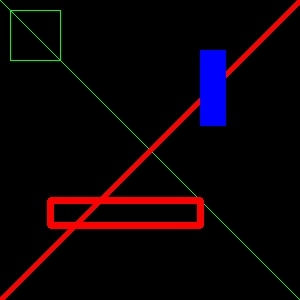
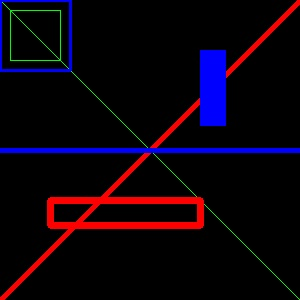
added some files

Changed region(s): [[0.0, 0.48, 1.0, 0.54], [0.0, 0.0, 0.27, 0.27]]

diff --git a/gru/04_getting_and_setting.py b/gru/04_getting_and_setting.py
@@ -9,14 +9,16 @@ image = cv2.imread(path)
 cv2.imshow("Original", image)
 
 ## Read the pixel in the top left corner
-(b, g, r) = image[0, 0]
-print("Pixel at (0, 0) - Red={}, Green={}, Blue={}".format(r, g, b))
+(b, g, r) = image[200, 200]
+print("Pixel at (200, 200) - Red={}, Green={}, Blue={}".format(r, g, b))
 
 ## Change the pixel in the top left corner
-image[0, 0] = (0, 0, 255)
-(b, g, r) = image[0, 0]
-print("Pixel at (0, 0) - Red={}, Green={}, Blue={}".format(r, g, b))
-cv2.imshow("original2", image)
+image[5, 5] = (0, 0, 255)
+(b, g, r) = image[200, 200]
+print("Pixel at (200, 200) - Red={}, Green={}, Blue={}".format(r, g, b))
+cv2.imshow("Original", image)
+image
+cv2.imshow("changed", image)
 
 ## Extract a sub-image and display it
 corner = image[0:100, 0:100]
@@ -24,8 +26,6 @@ cv2.imshow("Corner", corner)
 
 ## Change a subregion and display it
 image[0:100, 0:100] = (0, 255, 0)
-image[100:200, 100:200] = (0, 0, 255)
-image[0:100, 200:300] = (128, 255, 0)
 cv2.imshow("Updated", image)
 
 ## Wait for a key press

diff --git a/gru/06h_masking.py b/gru/06h_masking.py
@@ -1,0 +1,27 @@
+import numpy as np
+import cv2
+
+def show(title, img):
+    cv2.imshow(title, img)
+    cv2.imwrite("output/"+title+".jpg", img)
+
+path = "../images/beach.png"
+image = cv2.imread(path)
+cv2.imshow("Original", image)
+
+mask = np.zeros(image.shape[:2], dtype="uint8")
+(cx, cy) = (image.shape[1]//2, image.shape[0]//2)
+d=75
+cv2.rectangle(mask, (cx-d, cy-d), (cx+d, cy+d), 255, -1)
+cv2.imshow("Mask", mask)
+
+masked = cv2.bitwise_and(image, image, mask=mask)
+show("Square Mask applied to image", masked)
+
+mask = np.zeros(image.shape[:2], dtype="uint8")
+cv2.circle(mask, (cx, cy), 100, 255, -1)
+cv2.imshow("Mask circle", mask)
+masked = cv2.bitwise_and(image, image, mask=mask)
+show("Circular Mask applied to image", masked)
+
+cv2.waitKey(0)

diff --git a/gru/06g_bitwise.py b/gru/06g_bitwise.py
@@ -1,0 +1,28 @@
+import numpy as np
+import cv2
+
+def show(title, img):
+    cv2.imshow(title, img)
+    cv2.imwrite("output/"+title+".jpg", img)
+    
+rectangle = np.zeros((300, 300), dtype = "uint8")
+cv2.rectangle(rectangle, (25, 25), (275, 275), 255, -1)
+show("Rectangle", rectangle)
+
+circle = np.zeros((300, 300), dtype = "uint8")
+cv2.circle(circle, (150, 150), 150, 255, -1)
+show("Circle", circle)
+
+bitwiseAnd = cv2.bitwise_and(rectangle, circle)
+show("AND", bitwiseAnd)
+
+bitwiseOr = cv2.bitwise_or(rectangle, circle)
+show("OR", bitwiseOr)
+
+bitwiseXor = cv2.bitwise_xor(rectangle, circle)
+show("XOR", bitwiseXor)
+
+bitwiseNot = cv2.bitwise_not(circle)
+show("NOT", bitwiseNot)
+cv2.waitKey(0)
+

diff --git a/gru/06c_resize.py b/gru/06c_resize.py
@@ -1,0 +1,27 @@
+import numpy as np
+import cv2
+import imutils
+
+def show(title):
+    cv2.imshow(title, resized)
+    cv2.imwrite("output/"+title+".jpg", resized)
+    
+path = "../images/trex.png"
+image = cv2.imread(path)
+cv2.imshow("Original", image)
+
+r = 150.0 / image.shape[1]
+dim = (150, int(image.shape[0]*r))
+
+resized = cv2.resize(image, dim, interpolation = cv2.INTER_AREA)
+show("Resized (Width)")
+
+r = 50.0 / image.shape[0]             # height
+dim = (int(image.shape[1] * r), 50)   # (width, hight)
+resized = cv2.resize(image, dim, interpolation = cv2.INTER_AREA)
+show("Resized (Height)")
+
+resized = imutils.resize(image, width = 100)
+show("Resized via Function")
+
+cv2.waitKey(0)

diff --git a/gru/06i_splitting.py b/gru/06i_splitting.py
@@ -1,0 +1,27 @@
+import numpy as np
+import cv2
+
+def show(title, img):
+    cv2.imshow(title, img)
+    cv2.imwrite("output/"+title+".jpg", img)
+
+path = "./images/lego.jpg"
+image = cv2.imread(path)
+cv2.imshow("Original", image)
+
+(B, G, R) = cv2.split(image)
+cv2.imshow("Red", R)
+cv2.imshow("Green", G)
+cv2.imshow("Blue", B)
+
+merged = cv2.merge([B, G, R])
+cv2.imshow("Merged", merged)
+
+zeros = np.zeros(image.shape[:2], dtype = "uint8")
+cv2.imshow("Red", cv2.merge([zeros, zeros, R]))
+cv2.imshow("Green", cv2.merge([zeros, G, zeros]))
+cv2.imshow("Blue", cv2.merge([B, zeros, zeros]))
+
+
+cv2.waitKey(0)
+cv2.destroyAllWindows()

diff --git a/gru/06b_rotation.py b/gru/06b_rotation.py
@@ -1,0 +1,26 @@
+import numpy as np
+import cv2
+import imutils
+
+def show(title):
+    cv2.imshow(title, rotated)
+    cv2.imwrite("output/"+title+".jpg", rotated)
+    
+path = "../images/trex.png"
+image = cv2.imread(path)
+
+(h, w) = image.shape[:2]
+center = (w//2, h//2)
+
+M = cv2.getRotationMatrix2D(center, 45, 1.0)
+rotated = cv2.warpAffine(image, M, (w, h))
+show("Rotated by 45 Degrees")
+
+M = cv2.getRotationMatrix2D(center, -90, 1.0)
+rotated = cv2.warpAffine(image, M, (w, h))
+show("Rotated by -90 Degrees")
+
+rotated = imutils.rotate(image, 180)
+show("Rotated by 180 Degrees")
+
+cv2.waitKey()

diff --git a/gru/06d_flipping.py b/gru/06d_flipping.py
@@ -1,0 +1,22 @@
+import numpy as np
+import cv2
+import imutils
+
+def show(title):
+    cv2.imshow(title, flipped)
+    cv2.imwrite("output/"+title+".jpg", flipped)
+    
+path = "../images/trex.png"
+image = cv2.imread(path)
+cv2.imshow("Original", image)
+
+flipped = cv2.flip(image, 1)
+show("Flipped Horizontally")
+
+flipped = cv2.flip(image, 0)
+show("Flipped Vertically")
+
+flipped = cv2.flip(image, -1)
+show("Flipped Horizontally & Vertically")
+
+cv2.waitKey(0)

diff --git a/gru/06e_crop.py b/gru/06e_crop.py
@@ -1,0 +1,15 @@
+import numpy as np
+import cv2
+import imutils
+
+def show(title, img):
+    cv2.imshow(title, img)
+    cv2.imwrite("output/"+title+".jpg", img)
+    
+path = "../images/trex.png"
+image = cv2.imread(path)
+cv2.imshow("Original", image)
+
+cropped = image[30:120, 240:335]
+show("T-Rex Face", cropped)
+cv2.waitKey(0)

diff --git a/gru/05_drawing.py b/gru/05_drawing.py
@@ -24,7 +24,13 @@ update()
 cv2.line(canvas, (300, 0), (0, 300), red, 3)
 update()
 
+cv2.line(canvas, (0, 150), (300, 150), blue, 3)
+update()
+
 cv2.rectangle(canvas, (10, 10), (60, 60), green)
+update()
+
+cv2.rectangle(canvas, (0, 0), (70, 70), blue, 2)
 update()
 
 cv2.rectangle(canvas, (50, 200), (200, 225), red, 5)

diff --git a/gru/06a_translation.py b/gru/06a_translation.py
@@ -16,7 +16,7 @@ def show(title, img):
     f.write(""+title+"\n\n")
     f.write("![image]("+img_path+")\n\n")
 
-path = "images/lego.jpg"
+path = "../images/trex.png"
 image = cv2.imread(path)
 
 show('Original', image)

diff --git a/gru/06_image_processing.md b/gru/06_image_processing.md
@@ -1,0 +1,87 @@
+# Image processing
+Original
+
+![image](output/Original.jpg)
+
+
+## Translation
+A translation 2x3 floating point matrix `M` is used with the function
+`cv2.warpAffine(img, M, (w, h))`.
+```python
+M = np.float32([[1, 0, 25], [0, 1, 50]])
+shifted = cv2.warpAffine(image, M, (image.shape[1], image.shape[0]))
+```
+
+Shifted Down and Right
+
+![image](output/Shifted Down and Right.jpg)
+
+Shifted Up and Left
+
+![image](output/Shifted Up and Left.jpg)
+
+Shifted Down
+
+![image](output/Shifted Down.jpg)
+
+
+## Rotation
+To rotate an image we need a 2x3 rotation matrix.
+```python
+M = cv2.getRotationMatrix2D(center, 45, 1.0)
+rotated = cv2.warpAffine(image, M, (w, h))
+```
+
+Rotated by 45 Degrees
+
+![image](output/Rotated by 45 Degrees.jpg)
+
+Rotated by -90 Degrees
+
+![image](output/Rotated by -90 Degrees.jpg)
+
+Rotated by 180 Degrees
+
+![image](output/Rotated by 180 Degrees.jpg)
+
+## Reseizing
+Resized by Width
+
+![image](output/Resized by Width.jpg)
+
+Resized by Height
+
+![image](output/Resized by Height.jpg)
+
+Resized via Function
+
+![image](output/Resized via Function.jpg)
+
+
+## Flipping
+Flipping an image can be done with the function `cv2.flip(img, dir)`.
+
+Flipped Horizontally
+
+![image](output/Flipped Horizontally.jpg)
+
+Flipped Vertically
+
+![image](output/Flipped Vertically.jpg)
+
+Flipped Horizontally & Vertically
+
+![image](output/Flipped Horizontally & Vertically.jpg)
+
+
+## Cropping
+Extracting an image region (cropping) can be achieved by using
+the NumPy array slicing.
+```
+cropped = image[30:120, 240:335]
+```
+
+T-Rex Face
+
+![image](output/T-Rex Face.jpg)
+
